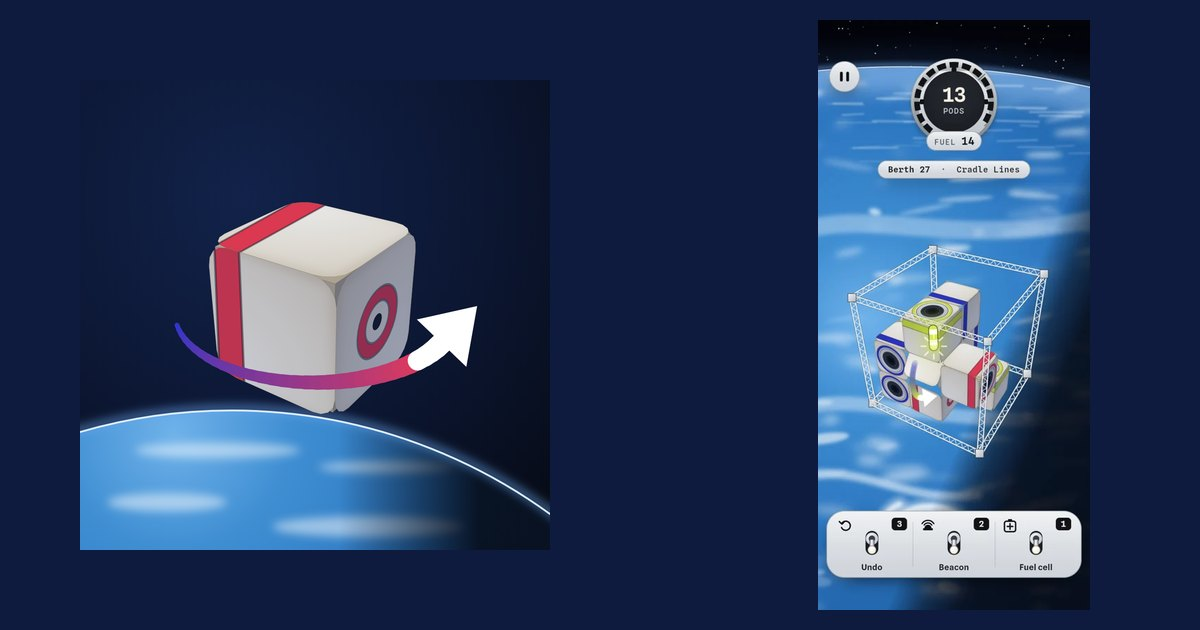
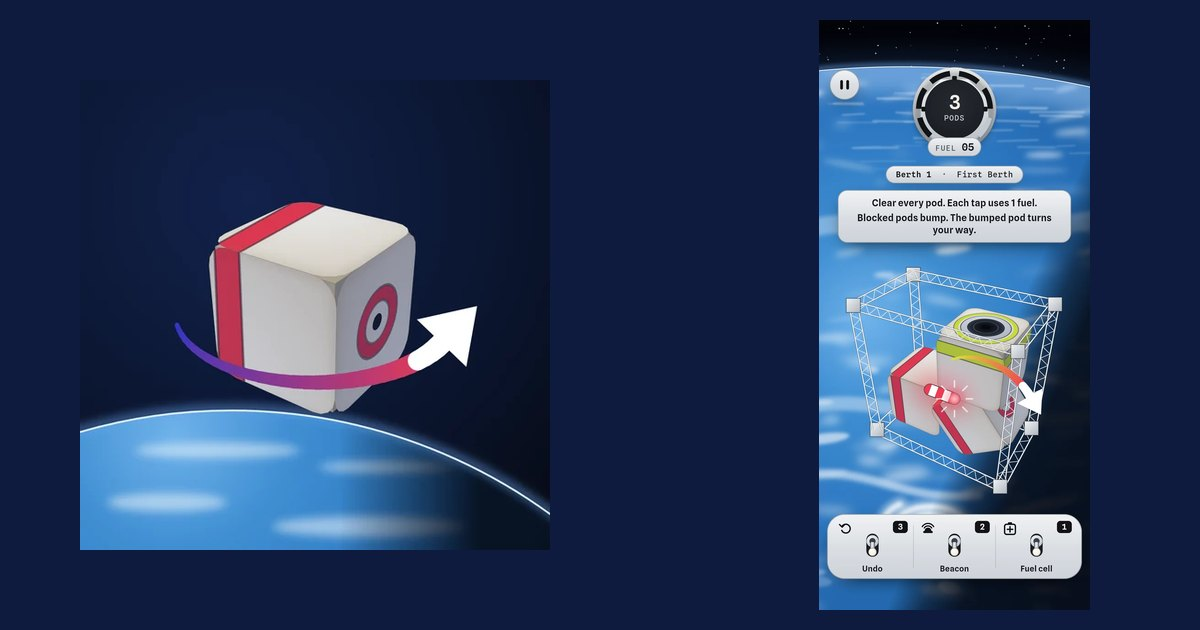
fix: rename chapter 6 to Full Dock and refresh in-game screens
Matches the game after G4; the screens are the current store captures.

Changed region(s): [[0.6783, 0.0905, 0.8942, 0.9349]]

diff --git a/index.html b/index.html
@@ -51,7 +51,7 @@
   .btn2 { padding: 12px 18px; border: 1.5px solid var(--ink); border-radius: 14px; color: var(--ink); text-decoration: none; font-weight: 600; }
   .trust { margin: 22px 0 0; padding: 0; list-style: none; display: flex; flex-wrap: wrap; gap: 8px; }
   .trust li { font-family: var(--mono); font-size: 13px; padding: 5px 10px; border: 1px solid var(--line); border-radius: 999px; background: var(--alu-2); }
-  .phone { justify-self: center; width: min(320px, 100%); aspect-ratio: 390 / 844; border-radius: 40px; overflow: hidden;
+  .phone { justify-self: center; width: min(320px, 100%); aspect-ratio: 402 / 874; border-radius: 40px; overflow: hidden;
     border: 8px solid var(--carbon); box-shadow: 0 30px 60px rgba(0,0,0,.25); background: #0E1B3E; }
   .phone img { width: 100%; height: 100%; object-fit: cover; display: block; }
   section { padding: 56px 0; border-top: 1px solid var(--line); }
@@ -103,7 +103,7 @@
           <li>120 berths, all free</li><li>No ads</li><li>No account</li><li>No tracking</li>
         </ul>
       </div>
-      <div class="phone"><img src="assets/game.webp" alt="Spinberth game screen: a cluster of white pods in a dock frame above a planet, the fuel dial at the top and three booster switches below" width="390" height="844"></div>
+      <div class="phone"><img src="assets/game.webp" alt="Spinberth berth 1: a blocked pod bumps the pod in its way, which turns a quarter-turn; the fuel dial sits at the top and three booster switches below" width="402" height="874"></div>
     </div>
 
     <section aria-labelledby="idea">
@@ -130,7 +130,7 @@
           <p>A pod's path flashes before it goes: bright means clear, striped means it will bump. You learn the board instead of trial and error.</p></div>
         <div class="card"><h3>120 berths, six twists</h3>
           <p>Each chapter adds one idea and teaches it in a single berth, from pods passing a bump along to anchored and twin pods.</p>
-          <ul class="chapters"><li>First Berth</li><li>Cradle Lines</li><li>Nose to Nose</li><li>Anchored</li><li>Twin Pods</li><li>Rush Hour</li></ul></div>
+          <ul class="chapters"><li>First Berth</li><li>Cradle Lines</li><li>Nose to Nose</li><li>Anchored</li><li>Twin Pods</li><li>Full Dock</li></ul></div>
         <div class="card"><h3>No lives, no timers</h3>
           <p>Each berth gives you a fuel budget. Run dry and you try again at once, nothing lost. Undo, Beacon and Fuel cell help when you want them.</p></div>
       </div>
@@ -138,7 +138,7 @@
 
     <section id="how" aria-labelledby="howh">
       <div class="rules">
-        <div class="phone"><img src="assets/home.webp" alt="Spinberth home screen: the Spinberth pod with its Undock lever and the list of six chapters" width="390" height="844" loading="lazy"></div>
+        <div class="phone"><img src="assets/home.webp" alt="Spinberth home screen: the Spinberth pod with its Undock lever and the list of six chapters" width="402" height="874" loading="lazy"></div>
         <div>
           <span class="label">How to play</span>
           <h2 id="howh">Three moves to learn</h2>
